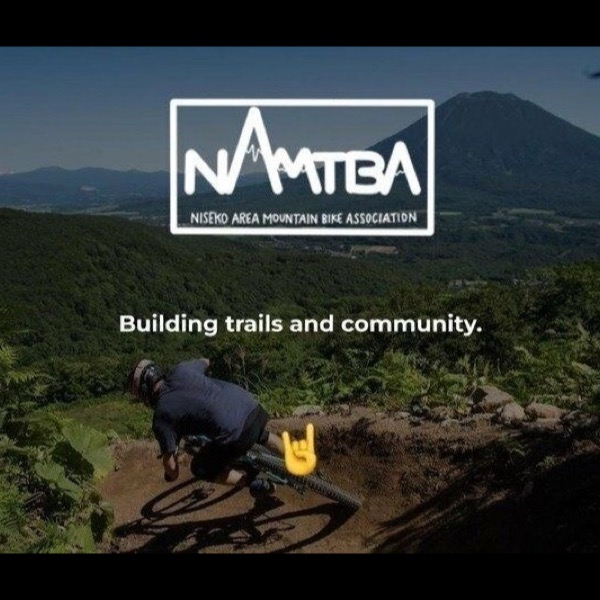
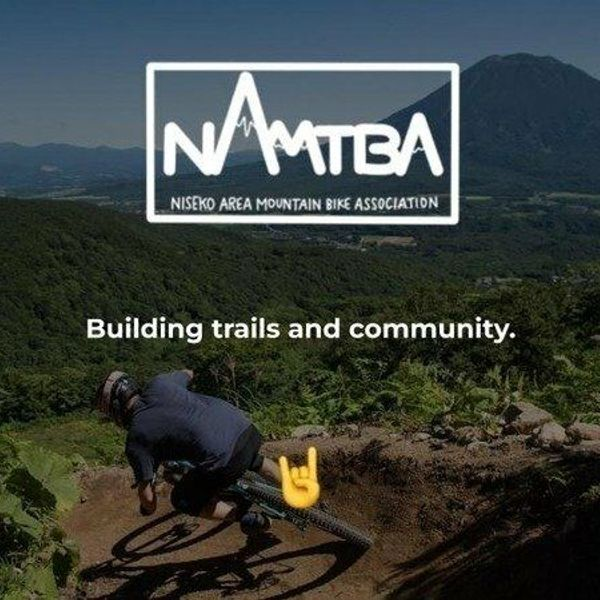
content(media-coverage): add six Niseko MTB coverage items
New cards for North Bicycle, Bike Shop Forza, Holiday Niseko, Meigaya,
MTB Biyori and Whiteline Bicycle, with thumbnails and outlet logos.
Fix the vacationniseko NAMTBA thumbnail (black bars removed) and document
the always-trim-black-bars / check-rotation rules in the skill pipeline.

diff --git a/.claude/skills/media-coverage/references/image-pipeline.md b/.claude/skills/media-coverage/references/image-pipeline.md
@@ -8,6 +8,17 @@ All commands run from repo root. `<source>` is the file dropped into `_triage/`.
 The card serves the thumb as `<picture>` with a WebP `<source>` (swapping
 `.jpg` -> `.webp`), so BOTH files must exist.
 
+**ALWAYS remove black letterbox bars.** Many `og:image`s are video-style
+thumbnails (YouTube/Vimeo/note.com) padded with solid black bars top+bottom (or
+sides). Black bars must NEVER survive into a thumb. Before cropping, eyeball the
+source; if it has bars, trim them first with `sharp-cli` (trims borders matching
+the top-left pixel), then crop the trimmed file:
+
+```bash
+npx sharp-cli -i "assets/images/_triage/<source>" -o /tmp/mc-trim.png trim 15
+# use /tmp/mc-trim.png as the crop input below
+```
+
 ```bash
 DIR="assets/images/media-coverage/<year>/<slug>"
 mkdir -p "$DIR"
@@ -20,6 +31,17 @@ rm -f /tmp/mc-src.jpg /tmp/mc-900.jpg
 
 cwebp -q 82 "$DIR/thumb.jpg" -o "$DIR/thumb.webp"
 ```
+
+Alternatively, `npx sharp-cli -i <src> -o "$DIR/thumb.jpg" resize 600 600 --fit
+cover --position attention` produces a clean square crop in one step (use
+`attention` to keep the subject, `centre` for maps/graphics).
+
+**ALWAYS eyeball the finished `thumb.jpg`.** Two things to catch:
+- **Black bars** left behind (trim harder, or grab a `noPad`/original variant).
+- **Wrong rotation.** Some phone photos carry an EXIF orientation tag that `sips`
+  and `sharp` honour differently, yielding an upside-down/sideways thumb. Fix the
+  finished file in place with `sips -r 180 "$DIR/thumb.jpg" --out "$DIR/thumb.jpg"`
+  (or `-r 90` / `-r 270`), then regenerate the `.webp`.
 
 If the crop lands badly (face or logo cut off), re-crop from a different offset
 or ask the user for a better source. Apply the keep-smaller / quality guard from
